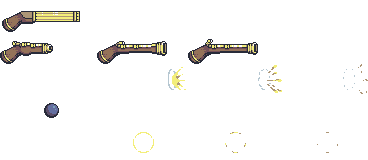
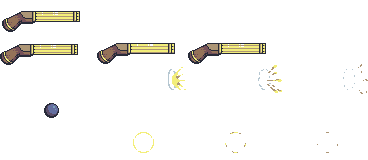
machine shoot anim

Changed region(s): [[0.0, 0.25, 0.2092, 0.4062], [0.538, 0.25, 0.7473, 0.375], [0.2989, 0.25, 0.4783, 0.375]]

diff --git a/src/nodes/machine_gun.rs b/src/nodes/machine_gun.rs
@@ -68,9 +68,9 @@ impl MachineGun {
                 },
                 Animation {
                     name: "shoot".to_string(),
-                    row: 0,
-                    frames: 1,
-                    fps: 1,
+                    row: 1,
+                    frames: 3,
+                    fps: 25,
                 },
             ],
             false,
